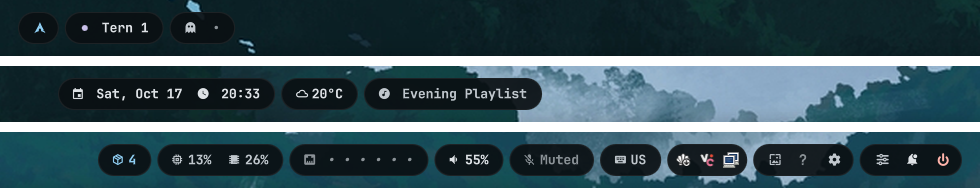
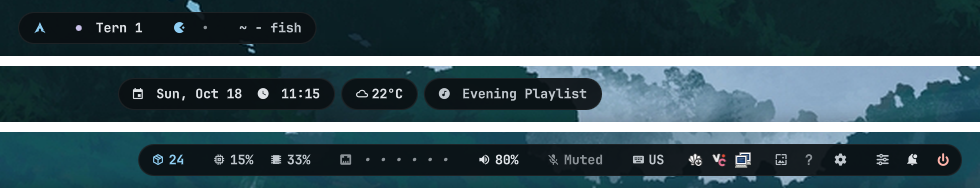
Bar: merge crowded pill rows into one island
A row with Theme.pillMergeThreshold (4) visible pills now closes its 6px gaps and fades the individual capsule fills and rims into one GroupBackground, so a crowded side reads as a single continuous bar. Spacing, fill/rim and island opacity all animate over motionSlow (340ms, OutCubic); rows below the threshold are unchanged. The centre row keeps its overlap clamp. README documents the threshold; screenshots/bar.png retaken with the merged look (fake MPRIS title, PokeToken pill hidden, live layout restored afterwards).

diff --git a/components/BarPanel.qml b/components/BarPanel.qml
@@ -32,15 +32,21 @@ PanelWindow {
     implicitHeight: Theme.barHeight
     color: "transparent"
 
-    Row {
+    // A crowded row turns into one island: see components/PillRow.qml and
+    // components/GroupBackground.qml. The backgrounds come first so the pills
+    // paint on top of them.
+    GroupBackground { row: leftRow }
+    GroupBackground { row: centerRow }
+    GroupBackground { row: rightRow }
+
+    PillRow {
         id: leftRow
         anchors.left: parent.left
         anchors.leftMargin: Theme.barPadding
         anchors.verticalCenter: parent.verticalCenter
-        spacing: Theme.pillSpacing
     }
 
-    Row {
+    PillRow {
         id: centerRow
         // Keep the centre group between the side groups. On a wide bar this is
         // exactly the centred position; on a narrow output — or when the tray
@@ -50,15 +56,13 @@ PanelWindow {
         readonly property real rightLimit: rightRow.x - width - Theme.pillSpacing
         x: Math.max(leftLimit, Math.min(preferredX, rightLimit))
         anchors.verticalCenter: parent.verticalCenter
-        spacing: Theme.pillSpacing
     }
 
-    Row {
+    PillRow {
         id: rightRow
         anchors.right: parent.right
         anchors.rightMargin: Theme.barPadding
         anchors.verticalCenter: parent.verticalCenter
-        spacing: Theme.pillSpacing
     }
 
     // Where every pill is declared, and where the hidden ones stay. Invisible,

diff --git a/components/Pill.qml b/components/Pill.qml
@@ -10,13 +10,23 @@ Rectangle {
     default property alias content: inner.data
 
     readonly property bool hovered: hoverHandler.hovered
+    // The parent row draws one GroupBackground when it has enough pills; the
+    // individual fill and rim then fade away so the row reads as one capsule.
+    readonly property bool merged: parent !== null && parent.merged === true
 
     implicitWidth: inner.implicitWidth + 2 * Theme.pillPaddingSide
     implicitHeight: Theme.pillHeight
     radius: Theme.pillRadius
-    color: Theme.popBg
-    border.width: 1
+    color: merged ? "transparent" : Theme.popBg
+    border.width: merged ? 0 : 1
     border.color: Theme.rim
+
+    Behavior on color { ColorAnimation { duration: Theme.motionSlow } }
+    Behavior on border.width { NumberAnimation { duration: Theme.motionSlow } }
+
+    // Visibility changes (a media player appears, the title empties, a pill is
+    // hidden) change how crowded the row is; let it recount and merge/unmerge.
+    onVisibleChanged: if (parent && parent.recount) parent.recount()
 
     HoverHandler {
         id: hoverHandler

diff --git a/components/PillRow.qml b/components/PillRow.qml
@@ -1,0 +1,30 @@
+import QtQuick
+import "../singletons"
+
+// A bar row that knows when it is crowded. At Theme.pillMergeThreshold visible
+// capsules its children stop drawing their own fill and one GroupBackground
+// behind the row draws a single island; the spacing closes so the row reads as
+// one continuous capsule. Below the threshold it is an ordinary Row.
+Row {
+    id: rowRoot
+
+    property int visiblePills: 0
+    readonly property bool merged: visiblePills >= Theme.pillMergeThreshold
+
+    function recount() {
+        let n = 0;
+        for (let i = 0; i < children.length; i++) {
+            if (children[i].visible)
+                n++;
+        }
+        visiblePills = n;
+    }
+
+    spacing: merged ? 0 : Theme.pillSpacing
+    Behavior on spacing {
+        NumberAnimation { duration: Theme.motionSlow; easing.type: Easing.OutCubic }
+    }
+
+    onChildrenChanged: recount()
+    Component.onCompleted: recount()
+}

diff --git a/singletons/Theme.qml b/singletons/Theme.qml
@@ -102,6 +102,10 @@ Singleton {
     readonly property int pillHeight: 32
     readonly property int pillRadius: 16  // stadium: half the pill height
     readonly property int pillSpacing: 6
+    // A row with this many visible capsules merges into one continuous island
+    // (the individual fills fade out and the gaps close). Raise it to keep
+    // capsules separate, or lower it to merge sooner.
+    readonly property int pillMergeThreshold: 4
     readonly property int pillPadding: 3       // vertical inset (items stay 26px tall)
     readonly property int pillPaddingSide: 6   // horizontal breathing room inside a capsule
     readonly property int itemRadius: 10

diff --git a/components/GroupBackground.qml b/components/GroupBackground.qml
@@ -1,0 +1,24 @@
+import QtQuick
+import "../singletons"
+
+// The single capsule behind a merged PillRow. It sits before the rows in child
+// order, so the pills paint on top of it. `row` is a PillRow.
+Rectangle {
+    id: bg
+
+    required property Item row
+
+    x: row.x
+    y: row.y
+    width: row.width
+    height: Theme.pillHeight
+    radius: Theme.pillRadius
+    color: Theme.popBg
+    border.width: 1
+    border.color: Theme.rim
+    opacity: row.merged ? 1 : 0
+
+    Behavior on opacity {
+        NumberAnimation { duration: Theme.motionSlow; easing.type: Easing.OutCubic }
+    }
+}

diff --git a/README.md b/README.md
@@ -151,6 +151,8 @@ which part of the bar, edit `matugen/palette.json`.
 ## Make it yours
 
 - **Sizes and the fallback colors:** `singletons/Theme.qml`
+- **Crowded rows:** a row with four or more visible pills merges into one continuous island
+  (`pillMergeThreshold` in `singletons/Theme.qml`). Set it to 5 to keep more capsules separate.
 - **Rearrange the bar:** open the settings page — the gear in the tools pill, a right-click on the
   launcher, or Mod+B — then drag a pill to another group or click it to show/hide it. Every change
   lands in `~/.config/tern-bar/bar.json`, and the page applies to all screens at once. Right-clicking the Tern pill
